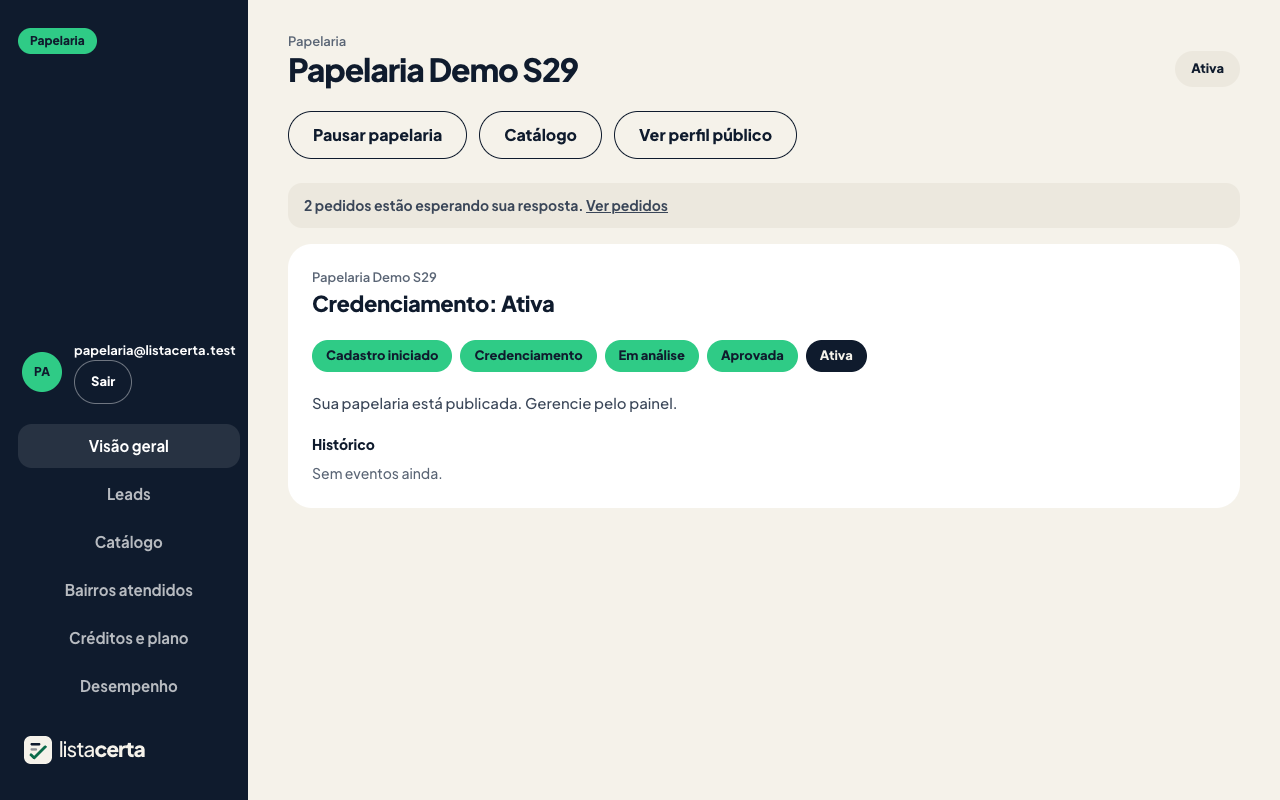
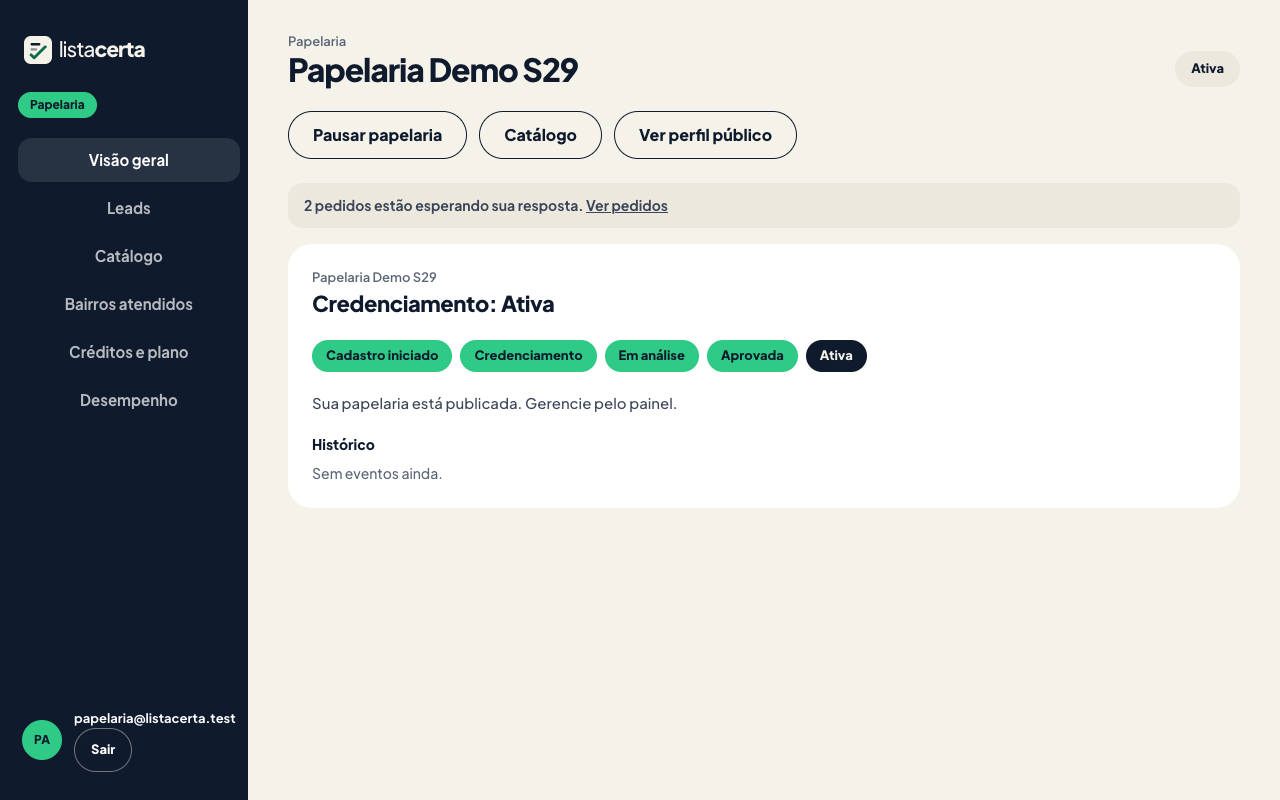
fix(s29): J6 — ordem da casca da papelaria no desktop, entrada em Aguardando humano (consentimento x 72 h)

diff --git a/components/stationeries/PanelShell.tsx b/components/stationeries/PanelShell.tsx
@@ -17,13 +17,13 @@ export function PanelShell({ badge, nav, email, children }: Props) {
     <div className="flex min-h-dvh flex-1 flex-col md:flex-row">
       <SkipLink />
       <aside className="bg-tinta flex shrink-0 flex-row flex-wrap items-center gap-x-3 gap-y-2 px-4 py-3 md:w-[248px] md:flex-col md:items-stretch md:gap-5 md:px-[18px] md:py-7">
-        <header className="order-1 px-1">
+        <header className="order-1 px-1 md:order-1">
           <Link href="/" aria-label="ListaCerta, página inicial" className="flex min-h-11 items-center rounded focus-visible:outline-2 focus-visible:outline-offset-2 focus-visible:outline-verde-certo">
             <Logo variant="horizontal-negativo" height={32} />
           </Link>
         </header>
-        <span className="bg-verde-certo text-tinta order-2 w-fit rounded-botao px-3 py-1 text-[12px] font-extrabold md:order-none">{badge}</span>
-        <div className="order-3 ml-auto flex items-center gap-2 text-white md:order-none md:mt-auto md:ml-0 md:gap-3 md:px-1 md:pt-4">
+        <span className="bg-verde-certo text-tinta order-2 w-fit rounded-botao px-3 py-1 text-[12px] font-extrabold md:order-2">{badge}</span>
+        <div className="order-3 ml-auto flex items-center gap-2 text-white md:order-4 md:mt-auto md:ml-0 md:gap-3 md:px-1 md:pt-4">
           <span className="bg-verde-certo text-tinta grid size-10 shrink-0 place-items-center rounded-full text-[12px] font-extrabold">
             {initials}
           </span>

diff --git a/components/stationeries/NavLinks.tsx b/components/stationeries/NavLinks.tsx
@@ -12,13 +12,13 @@ export function NavLinks({ items }: { items: readonly NavItem[] }) {
     .sort((a, b) => b.href.length - a.href.length)
     .find((i) => pathname === i.href || pathname.startsWith(`${i.href}/`))?.href;
   return (
-    <nav aria-label="Navegação" className="order-4 flex w-full flex-row gap-1 overflow-x-auto [mask-image:linear-gradient(to_right,#000_calc(100%-32px),transparent)] md:order-none md:w-auto md:flex-col md:[mask-image:none]">
+    <nav aria-label="Navegação" className="order-4 flex w-full flex-row gap-1 overflow-x-auto [mask-image:linear-gradient(to_right,#000_calc(100%-32px),transparent)] md:order-3 md:w-auto md:flex-col md:[mask-image:none]">
       {items.map((i) => (
         <Link
           key={i.href}
           href={i.href}
           aria-current={i.href === active ? "page" : undefined}
-          className={`min-h-11 inline-flex items-center justify-center focus-visible:outline-verde-certo rounded-campo px-3.5 py-2.5 text-[15px] font-bold whitespace-nowrap focus-visible:outline-2 focus-visible:outline-offset-2 ${
+          className={`min-h-11 inline-flex items-center justify-center md:justify-start focus-visible:outline-verde-certo rounded-campo px-3.5 py-2.5 text-[15px] font-bold whitespace-nowrap focus-visible:outline-2 focus-visible:outline-offset-2 ${
             i.href === active ? "bg-white/10 text-white" : "text-white/70 hover:text-white"
           }`}
         >

diff --git a/tests/a11y/shells.test.tsx b/tests/a11y/shells.test.tsx
@@ -37,6 +37,12 @@ describe("skip-link e landmark #conteudo nas cascas autenticadas", () => {
     expect(aside.className).toMatch(/flex-row/);
     expect(aside.className).toMatch(/md:flex-col/);
     expect(screen.getByRole("navigation", { name: "Navegação" }).className).toMatch(/mask-image/);
+    // Ordem no desktop: logo, selo, menu, conta (no fim). No celular: logo, selo, conta, menu.
+    const cls = (el: Element | null) => el?.className ?? "";
+    expect(cls(aside.querySelector("header"))).toMatch(/md:order-1/);
+    expect(cls(aside.querySelector("span.bg-verde-certo"))).toMatch(/md:order-2/);
+    expect(cls(screen.getByRole("navigation", { name: "Navegação" }))).toMatch(/md:order-3/);
+    expect(cls(screen.getByRole("button", { name: "Sair" }).closest("div.order-3"))).toMatch(/md:order-4[\s\S]*md:mt-auto/);
     const sair = screen.getByRole("button", { name: "Sair" });
     expect(sair.className).toMatch(/h-11/);
     expect(sair.className).toMatch(/rounded-botao/);

diff --git a/tests/a11y/skeleton.test.tsx b/tests/a11y/skeleton.test.tsx
@@ -73,7 +73,7 @@ describe("UX-004 · carregando padrão das árvores privadas", () => {
 });
 
 describe("S29 T15 · loading.tsx da papelaria não reabre o soft-404 (D-043)", () => {
-  it("nenhum loading.tsx de app/papelaria cobre uma página com notFound()/redirect; os detalhes com id ficam sem loading acima", async () => {
+  it("nenhum loading.tsx de app/papelaria cobre uma página com notFound() (o guard `redirect` fica no layout, que o teste não trata); os detalhes com id ficam sem loading acima", async () => {
     const { existsSync, readFileSync, readdirSync, statSync } = await import("node:fs");
     const { join } = await import("node:path");
     const walk = (dir: string): string[] =>

diff --git a/docs/revisao-total/checks.md b/docs/revisao-total/checks.md
@@ -53,7 +53,7 @@ Gerado por `scripts/s29-checks.mjs` em 2026-09-29T23:25:26.240Z contra `http://1
 <!-- J6:start -->
 ## J6 · Papelaria vende
 
-Gerado por `scripts/s29-checks.mjs` em 2026-09-30T03:23:45.918Z contra `http://127.0.0.1:3003`. Rotas com falha: **0** de 11.
+Gerado por `scripts/s29-checks.mjs` em 2026-09-30T03:32:31.471Z contra `http://127.0.0.1:3003`. Rotas com falha: **0** de 11.
 
 | Rota | Conta | HTTP | Resultado | Achados |
 |---|---|---|---|---|
@@ -73,32 +73,32 @@ Gerado por `scripts/s29-checks.mjs` em 2026-09-30T03:23:45.918Z contra `http://1
 <!-- J7:start -->
 ## J7 · Equipe opera
 
-Gerado por `scripts/s29-checks.mjs` em 2026-09-29T23:56:36.813Z contra `http://127.0.0.1:3003`. Rotas com falha: **15** de 22.
+Gerado por `scripts/s29-checks.mjs` em 2026-09-30T03:33:09.737Z contra `http://127.0.0.1:3003`. Rotas com falha: **13** de 22.
 
 | Rota | Conta | HTTP | Resultado | Achados |
 |---|---|---|---|---|
 | `/admin` | admin | 200 | falha | beco sem saída: sem caminho de volta |
-| `/admin/revisao` | admin | 200 | falha | beco sem saída: sem ação adiante; sem caminho de volta |
-| `/admin/reivindicacoes` | admin | 200 | falha | beco sem saída: sem ação adiante; sem caminho de volta |
-| `/admin/papelarias` | admin | 200 | falha | beco sem saída: sem ação adiante; sem caminho de volta |
-| `/admin/denuncias` | admin | 200 | falha | beco sem saída: sem ação adiante; sem caminho de volta |
-| `/admin/contestacoes` | admin | 200 | falha | beco sem saída: sem ação adiante; sem caminho de volta |
-| `/admin/planos` | admin | 200 | falha | beco sem saída: sem caminho de volta |
-| `/admin/ia` | admin | 200 | falha | beco sem saída: sem caminho de volta |
-| `/admin/repasses` | admin | 200 | falha | beco sem saída: sem caminho de volta |
-| `/admin/inadimplencia` | admin | 200 | falha | beco sem saída: sem caminho de volta |
-| `/admin/campanhas` | admin | 200 | falha | beco sem saída: sem ação adiante; sem caminho de volta |
-| `/admin/parceiros` | admin | 200 | falha | beco sem saída: sem caminho de volta |
-| `/admin/importacoes` | admin | 200 | falha | beco sem saída: sem caminho de volta |
-| `/admin/eventos` | admin | 200 | falha | beco sem saída: sem caminho de volta |
-| `/admin/auditoria` | admin | 200 | falha | beco sem saída: sem ação adiante; sem caminho de volta |
-| `/admin/revisao/` | admin | - | pulada | pulada: sem dado no seed (item de revisão); o seed cresce na Task 5 |
-| `/admin/listas/` | admin | - | pulada | pulada: sem dado no seed (lista); o seed cresce na Task 5 |
-| `/admin/reivindicacoes/` | admin | - | pulada | pulada: sem dado no seed (reivindicação); o seed cresce na Task 5 |
-| `/admin/papelarias/` | admin | - | pulada | pulada: sem dado no seed (id da papelaria); o seed cresce na Task 5 |
-| `/admin/denuncias/` | admin | - | pulada | pulada: sem dado no seed (denúncia); o seed cresce na Task 5 |
-| `/admin/importacoes/` | admin | - | pulada | pulada: sem dado no seed (lote de importação); o seed cresce na Task 5 |
-| `/admin/parceiros/` | admin | - | pulada | pulada: sem dado no seed (id do parceiro); o seed cresce na Task 5 |
+| `/admin/revisao` | admin | 200 | falha | alvo < 44 px (P2: 1): a.text-verde-fundo.inline-flex 34x44<br>ação escondida por tabela larga (1): a.text-verde-fundo.inline-flex "Abrir revisão de Escola " (fora da tela, x=838 de 374) |
+| `/admin/reivindicacoes` | admin | 200 | falha | beco sem saída: sem ação adiante |
+| `/admin/papelarias` | admin | 200 | falha | ação escondida por tabela larga (2): a.min-h-11.inline-flex "Recusar" (fora da tela, x=843 de 374); button.min-h-11.inline-flex "Aprovar" (fora da tela, x=937 de 374) |
+| `/admin/denuncias` | admin | 200 | falha | alvo < 44 px (P1: 1): a.text-verde-fundo.font-extrabold 32x16<br>ação escondida por tabela larga (1): a.text-verde-fundo.font-extrabold "Abrir" (fora da tela, x=668 de 374) |
+| `/admin/contestacoes` | admin | 200 | ok | - |
+| `/admin/planos` | admin | 200 | ok | - |
+| `/admin/ia` | admin | 200 | ok | - |
+| `/admin/repasses` | admin | 200 | falha | rolagem horizontal 677/390 (form.flex.flex-wrap 677 pos=static; label.flex.flex-col 677 pos=static) |
+| `/admin/inadimplencia` | admin | 200 | ok | - |
+| `/admin/campanhas` | admin | 200 | ok | - |
+| `/admin/parceiros` | admin | 200 | falha | alvo < 44 px (P1: 23): a.text-verde-fundo.font-extrabold 34x18; a.text-verde-fundo.font-extrabold 34x18; a.text-verde-fundo.font-extrabold 34x18<br>ação escondida por tabela larga (20): a.text-verde-fundo.font-extrabold "Gerir" (fora da tela, x=707 de 374); a.text-verde-fundo.font-extrabold "Gerir" (fora da tela, x=707 de 374); a.text-verde-fundo.font-extrabold "Gerir" (fora da tela, x=707 de 374) |
+| `/admin/importacoes` | admin | 200 | falha | alvo < 44 px (P1: 2): a.underline 147x19; a.text-verde-fundo.font-extrabold 87x19<br>ação escondida por tabela larga (1): a.text-verde-fundo.font-extrabold "Baixar erros" (fora da tela, x=756 de 374) |
+| `/admin/eventos` | admin | 200 | ok | - |
+| `/admin/auditoria` | admin | 200 | ok | - |
+| `/admin/revisao/00000000-0000-4000-8000-0000000029e3` | admin | 200 | ok | - |
+| `/admin/listas/b6a33b44-bafe-4ae4-ac9e-26f73e6a739b` | admin | 200 | ok | - |
+| `/admin/reivindicacoes/00000000-0000-4000-8000-000000290201` | admin | 200 | falha | alvo < 44 px (P1: 1): a.text-[14px].font-extrabold 75x21 |
+| `/admin/papelarias/00000000-0000-4000-8000-000000290301` | admin | 200 | falha | alvo < 44 px (P1: 1): a.text-verde-fundo.text-[14px] 75x21<br>ação irreversível sem confirmação (1): button.rounded-botao.relative.inline-flex.shrink-0 "Suspender" |
+| `/admin/denuncias/00000000-0000-4000-8000-000000290701` | admin | 200 | falha | alvo < 44 px (P1: 2): a.text-[14px].font-extrabold 75x21; a.text-verde-fundo.mt-2 124x21 |
+| `/admin/importacoes/00000000-0000-4000-8000-000000290801` | admin | 500 | falha | HTTP 500 (esperado 200)<br>beco sem saída: sem caminho de volta |
+| `/admin/parceiros/00000000-0000-4000-8000-000000290b02` | admin | 200 | falha | alvo < 44 px (P1: 1): a.text-[14px].font-extrabold 83x21<br>beco sem saída: sem ação adiante |
 <!-- J7:end -->
 
 <!-- J8:start -->

diff --git a/docs/superpowers/PROGRESS.md b/docs/superpowers/PROGRESS.md
@@ -237,3 +237,4 @@ Fila de ações que o classificador barrou ou que só o humano pode fazer. O orq
 - **Worktree e branch locais órfãos (limpeza, barrada pelo classificador).** (1) worktree de revisão de outra sessão em `~/.claude-pessoal/jobs/bb988a03/tmp/s19-review` (detached em `0dbc6ec`, sem alterações): `git worktree remove ~/.claude-pessoal/jobs/bb988a03/tmp/s19-review`; (2) branch local `slice/S28-excelencia` (criada por outra sessão sobre os commits da S19, sem nada próprio, nunca enviada): `git branch -D slice/S28-excelencia`. Nada depende disso.
 - **Publicar o plano de cobrança no staging (D-102) — barrado pelo classificador ("Permission Grant").** O staging não tem nenhum perfil `admin` e `billing_plan_publish` exige um. O orquestrador tentou criar um perfil operacional sintético sem senha e promovê-lo a admin; foi barrado. Ação do humano (uma das duas): (a) no SQL Editor do staging, promover a própria conta (`update public.profiles set role = 'admin' where id = '<seu uuid>';`) e publicar em `/admin/planos` com: 10 leads grátis sem validade; faixa única de 1 item em diante a R$ 5,00; passe R$ 1.500,00, 300 leads incluídos, até 3 parcelas; temporada de novembro (11) a março (3); pacotes R$ 50, R$ 100 e R$ 250; ou (b) rodar no SQL Editor: `select public.billing_plan_publish('<uuid de um admin>', '{"free_leads":10,"free_leads_validity_days":null,"season":{"start_month":11,"end_month":3},"pass":{"price_cents":150000,"included_leads":300,"max_installments":3},"tiers":[{"min_items":1,"max_items":null,"price_cents":500}],"packages":[{"amount_cents":5000},{"amount_cents":10000},{"amount_cents":25000}]}'::jsonb);`. Depois disso o orquestrador roda o lead real de ponta a ponta no staging (fica preparado no roteiro E2E da S20).
 - **PostHog (S28, ADR-007, plano gratuito): criar os projetos e cadastrar as variáveis.** (1) Criar dois projetos PostHog Cloud no plano gratuito, um para staging/preview e outro para produção (projetos separados; o gasto de um plano pago só o humano contrata). (2) Na Vercel, cadastrar `NEXT_PUBLIC_POSTHOG_KEY` (chave pública `phc_...` do projeto) e `NEXT_PUBLIC_POSTHOG_HOST` (ex.: `https://us.i.posthog.com` ou `https://eu.i.posthog.com`) em Production (projeto de produção) e em Preview/Development (projeto de staging); depois novo deploy, pois `NEXT_PUBLIC_*` é fixado no build. (3) Na função `ocr-worker` do Supabase, cadastrar os secrets `POSTHOG_KEY` e `POSTHOG_HOST` (mesmos valores) para `ocr_completed`, `list_auto_approved` e `list_published` do worker; sem eles o worker não envia nada. (4) Conferir no PostHog que chegam eventos (`landing_viewed` depois de aceitar o aviso; eventos de servidor como `login_completed`): o proxy `/ingest` e os endpoints `/i/v0/e` e `/batch` foram escritos contra a documentação, sem chave real, e não puderam ser validados aqui. Sem as variáveis a medição fica desligada (nenhum aviso, nenhum envio). (5) Revisão jurídica do texto "Medição de uso" da página de privacidade e do operador (`analyticsOperator` em `features/site/legal.ts`, hoje placeholder). (6) Defesa em profundidade recomendada pela revisão de segurança: em CADA projeto PostHog (staging e produção), ligar "Discard client IP data" (Project settings → Data management/Web analytics); o proxy `/ingest` já não repassa IP, cookie, referer nem user-agent, mas o PostHog ainda registraria o IP de origem do servidor (Vercel) e o do worker se o recurso estiver desligado.
+- **Texto de consentimento de cobrança contradiz o prazo de contestação (S29 T15, UX-081, decisão humana/financeira).** Conflito: o texto que a papelaria aceita (`billingTermsText` em `features/billing/terms.ts`, versão `billing-terms-v1`, usado em `components/billing/TermsCheckbox.tsx`) diz que a contestação "ainda não tem prazo definido", mas o código aplica 72 h a partir de `created_at` do lead (`features/conversion/repository-disputes.ts:75`) e a SPEC-2 §5 também diz 72 h. Risco: o aceite gravado contradiz a regra aplicada (risco contratual e de consumidor; texto sinalizado para revisão jurídica, sem afirmar conformidade). Decisão necessária: alinhar o texto a 72 h com nova `BILLING_TERMS_TEXT_VERSION` (consentimentos antigos ficam na v1), ou mudar o código. Nada foi alterado no comportamento de cobrança; a tela do lead já mostra o prazo de 72 h real.
